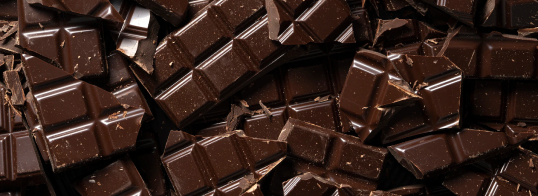
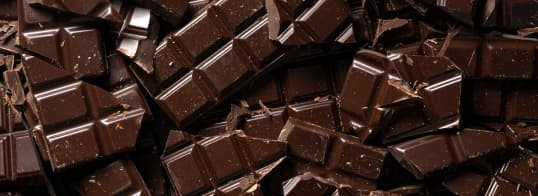
123

diff --git a/src/css/section-subscribe.css b/src/css/section-subscribe.css
@@ -245,12 +245,22 @@
 .modal-scroll {
 }
 .subscribe-modal-bg {
-   background-image: url(../img/popup/pop-up-bc-x1.jpg);
+   background-image: url(/img/popup/pop-up-bc-x1.jpg);
    background-size: cover;
    background-position: center center;
    width: 100%;
    height: 169px;
    border-radius: 12px 12px 0 0;
+}
+@media screen and (min-device-pixel-ratio: 2),
+screen and (min-resolution: 192dpi),
+screen and (min-resolution: 2dppx) {
+   .subscribe-modal-bg {
+      background-image: linear-gradient(180deg,
+            rgba(17, 17, 17, 0) 0%,
+            rgba(17, 17, 17, 0.4) 100%),
+         url(/img/popup/pop-up-bc-x2.jpg);
+   }
 }
 .subscribe-form-title {
    font-weight: 600;
